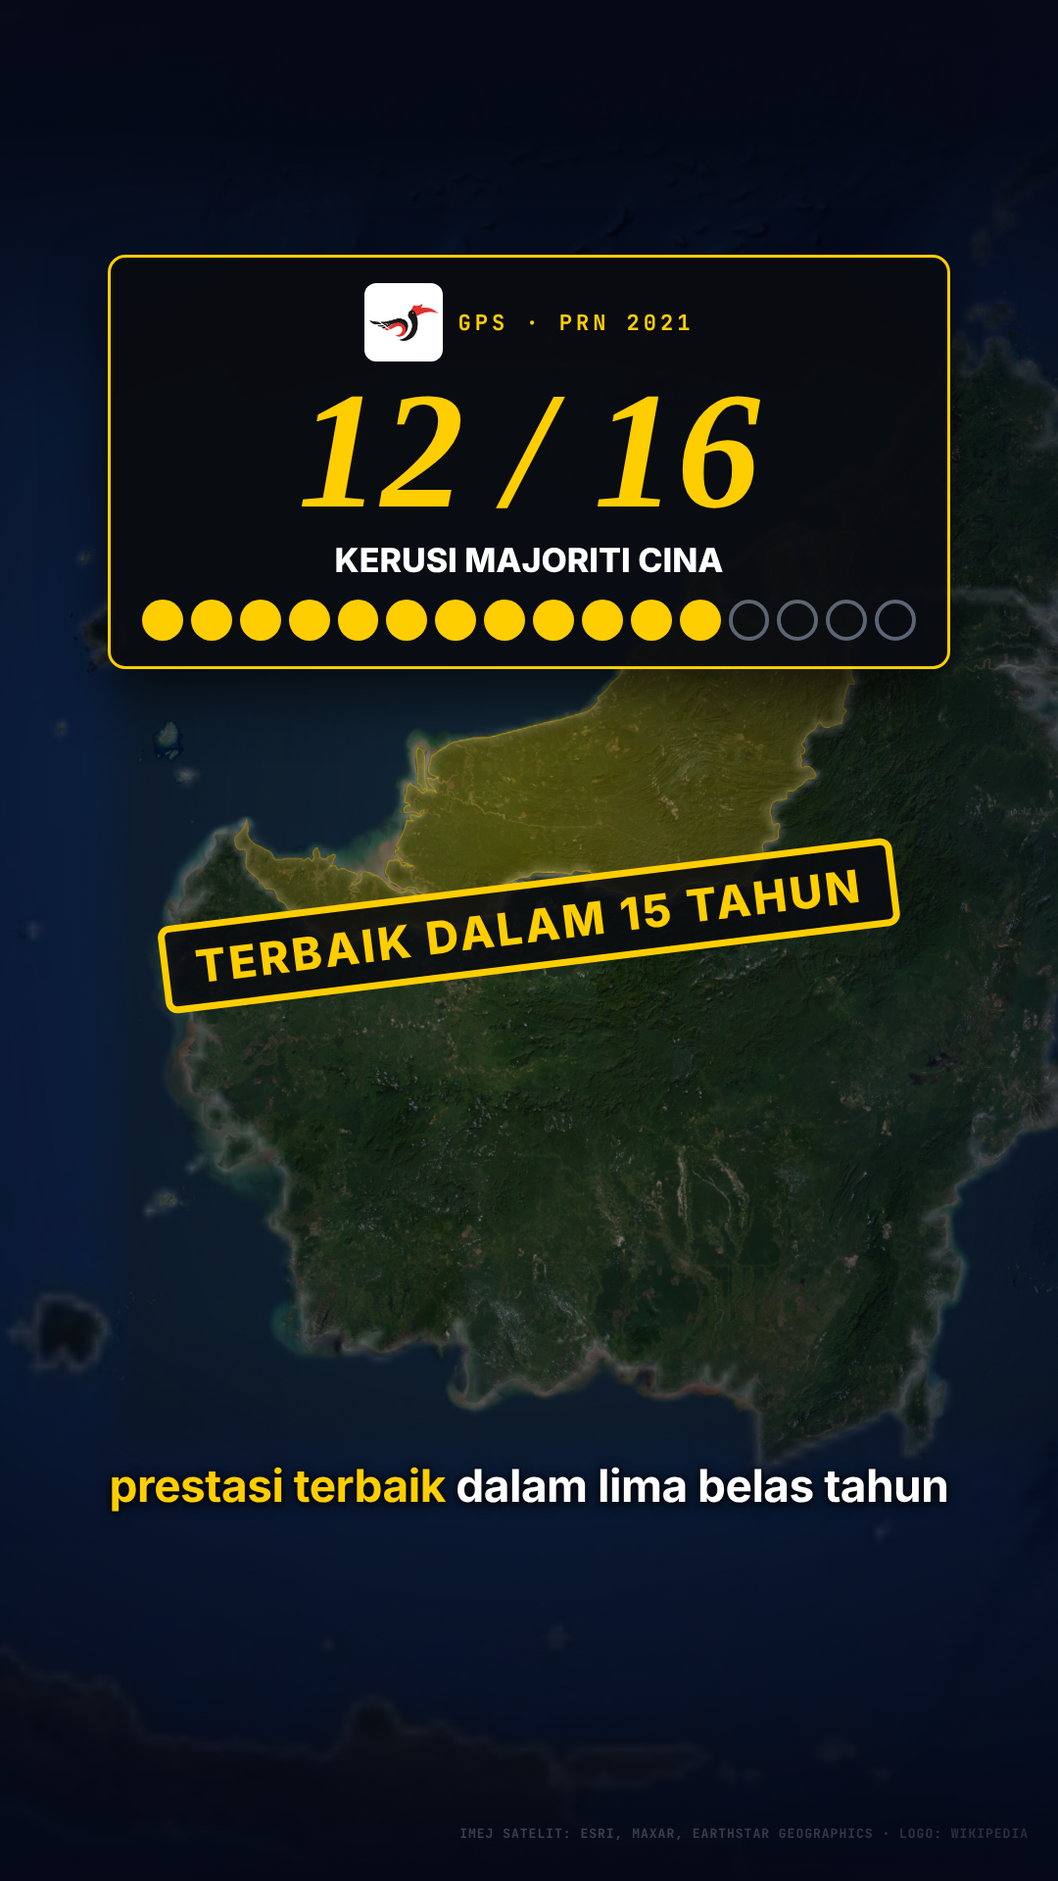
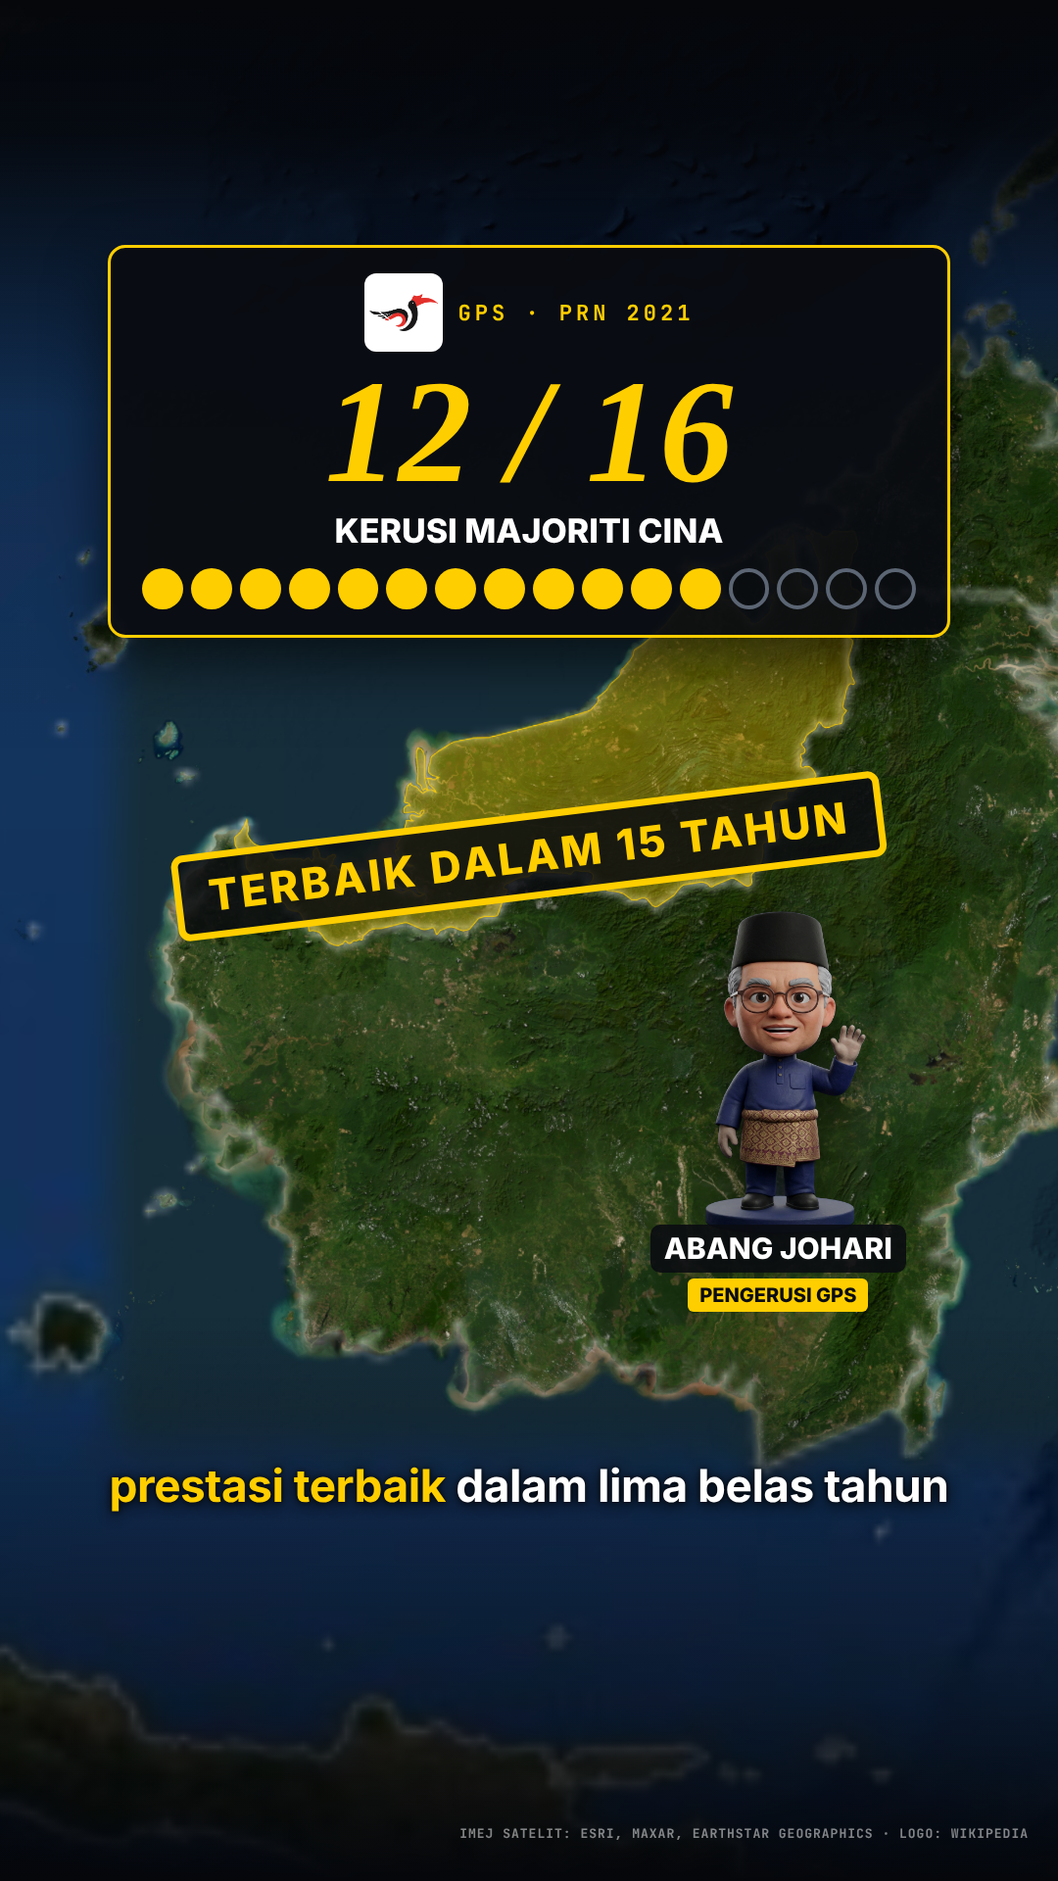
dap-sarawak-video: storyboard v2 with Kuching zooms, Putrajaya flight, caricature slots
Claude-Session: https://claude.ai/code/session_01GRVCpVLeEipRvyW43UFZDP

diff --git a/dap-sarawak-video/boards/frame.html b/dap-sarawak-video/boards/frame.html
@@ -251,7 +251,8 @@ const W = 1080, H = 1920;
 const F = +(new URLSearchParams(location.search).get("f") || 1);
 const g = await createGlobe(document.getElementById("gl"), { W, H, base: "../assets/", patches: [
   { src: "hi-borneo.jpg", lon0: 108, lon1: 119.5, lat0: -4.5, lat1: 7.5 },
-  { src: "hi-swk.jpg", lon0: 109.5, lon1: 115.7, lat0: 0.8, lat1: 5.1 } ] });
+  { src: "hi-kch.jpg", lon0: 110.1, lon1: 110.65, lat0: 1.3, lat1: 1.75 },
+  { src: "hi-my.jpg", lon0: 99.5, lon1: 119.5, lat0: 0.5, lat1: 7.5 } ] });
 const topo = await (await fetch("../assets/geo/countries-10m.json")).json();
 const countries = topojson.feature(topo, topo.objects.countries).features;
 const ST = (await (await fetch("../assets/geo/my-states.json")).json()).features;
@@ -281,43 +282,59 @@ const seats = (n, red, lost, top, label, sub, col = "#ff4d5e") => html(`<div sty
   ${lost ? `<div style="margin-top:12px;font:800 30px Inter;color:#ffce00;text-align:right">${lost}</div>` : ""}</div>`);
 const KCH = [1.55, 110.34], SBU = [2.30, 111.82], BTU = [3.17, 113.03], MRI = [4.40, 113.99];
 const SV = { lat: 2.75, lon: 112.4, dist: 0.6, tilt: 8, yShift: 0.1 };
+const ring = (ll, col, r = 40, lab, sub, subc) => { const p = g.project(ll[0], ll[1]); html(`<div style="position:absolute;left:${p.x - r}px;top:${p.y - r}px;width:${r * 2}px;height:${r * 2}px;border-radius:50%;border:6px solid ${col};box-shadow:0 0 30px ${col},inset 0 0 20px ${col}"></div><div style="position:absolute;left:${p.x - 9}px;top:${p.y - 9}px;width:18px;height:18px;border-radius:50%;background:${col}"></div>` + (lab ? `<div style="position:absolute;left:${p.x + r + 8}px;top:${p.y - 24}px;display:flex;flex-direction:column;gap:5px;align-items:flex-start"><div class="lab">${lab}</div>${sub ? `<div class="sub" style="background:${subc || col};color:${subc === "#ffce00" ? "#0b0d12" : "#fff"}">${sub}</div>` : ""}</div>` : "")); };
+const ph = (left, top, w, h, who, note) => html(`<div class="ph3" style="left:${left}px;top:${top}px;width:${w}px;height:${h}px"><svg viewBox="0 0 60 90" width="100" height="150" style="opacity:.7"><circle cx="30" cy="20" r="16" fill="#ffce00"/><path d="M4 90 Q4 44 30 42 Q56 44 56 90Z" fill="#ffce00"/></svg><div>KARIKATUR<br>${who}</div><em style="font-style:normal;color:#fff;font-size:15px">${note}</em></div>`);
+const fig = (left, top, h, src, name, role) => html(`<img class="fig" src="../assets/leaders/${src}" style="left:${left}px;top:${top}px;height:${h}px"><div class="np2" style="left:${left - 60}px;width:${h * 0.45 + 120}px;top:${top + h - 10}px"><b>${name}</b><br><i>${role}</i></div>`);
+const mini = (top, yr, n, col = "#ff4d5e") => html(`<div style="position:absolute;top:${top}px;left:90px;display:flex;align-items:center;gap:16px;background:rgba(10,12,17,.94);border-radius:16px;padding:14px 22px;box-shadow:0 14px 34px rgba(0,0,0,.5)">${lg("dap", 64)}<div style="font:700 22px Mono;letter-spacing:3px;color:#ff8a8a">${yr}</div><div style="font:italic 700 96px/1 Serif;color:${col}">${n}</div><div style="font:800 30px Inter;color:#fff">KERUSI</div></div>`);
+const KV = { lat: 1.53, lon: 110.36, dist: 0.016, tilt: 8, yShift: 0.12 };
+const PAD = [1.553, 110.355], PEN = [1.545, 110.392], KSN = [1.468, 110.330], PJ = [2.93, 101.69];
 const FR = {
-  1() { g.setView(SV); credit(); fill(SWK, "rgba(255,206,0,.18)", "#ffce00"); dimBg(.4);
-    html(`<div style="position:absolute;top:240px;left:150px;right:150px;height:560px;display:flex;align-items:flex-end;justify-content:center;gap:120px">
-      <div style="text-align:center"><div style="font:italic 700 140px/1 Serif;color:#ff4d5e">12</div><div style="width:200px;height:400px;background:linear-gradient(#ff4d5e,#b3121f);border-radius:12px 12px 0 0"></div><div style="font:800 40px Inter;color:#fff;margin-top:10px">2011</div></div>
-      <div style="text-align:center"><div style="font:italic 700 140px/1 Serif;color:#ff4d5e">2</div><div style="width:200px;height:67px;background:linear-gradient(#ff4d5e,#b3121f);border-radius:12px 12px 0 0"></div><div style="font:800 40px Inter;color:#fff;margin-top:10px">2021</div></div></div>`);
-    html(`<div style="position:absolute;top:900px;left:0;right:0;display:flex;justify-content:center;align-items:center;gap:20px">${lg("dap", 100)}<div style="font:800 54px Inter;color:#fff">DAP SARAWAK</div></div>`);
-    html(`<div class="stamp2 red" style="top:1110px;font-size:60px">APA JADI?</div>`);
+  1() { g.setView(SV); credit(); fill(SWK, "rgba(255,206,0,.15)", "#ffce00");
+    [KCH, SBU, BTU, MRI].forEach((ll) => ring(ll, "#ff4d5e", 34));
+    html(`<div style="position:absolute;top:230px;left:90px;right:90px;display:flex;align-items:flex-end;justify-content:center;gap:60px;background:rgba(10,12,17,.9);border-radius:18px;padding:20px 30px">
+      ${lg("dap", 90)}<div style="text-align:center"><div style="font:italic 700 110px/1 Serif;color:#ff4d5e">12</div><div style="width:120px;height:220px;background:linear-gradient(#ff4d5e,#b3121f);border-radius:10px 10px 0 0"></div><div style="font:800 32px Inter;color:#fff;margin-top:8px">2011</div></div>
+      <div style="font:800 60px Inter;color:#fff;align-self:center">→</div>
+      <div style="text-align:center"><div style="font:italic 700 110px/1 Serif;color:#ff4d5e">2</div><div style="width:120px;height:37px;background:linear-gradient(#ff4d5e,#b3121f);border-radius:10px 10px 0 0"></div><div style="font:800 32px Inter;color:#fff;margin-top:8px">2021</div></div></div>`);
+    html(`<div class="stamp2 red" style="top:1180px;font-size:60px">APA JADI?</div>`);
+    ph(760, 820, 260, 380, "CHONG CHIENG JEN", "pengerusi DAP Sarawak");
     capB(`Sepuluh tahun kemudian, <span class="r">tinggal dua je!</span>`); },
-  2() { g.setView(SV); credit(); fill(SWK, "rgba(255,206,0,.15)", "#ffce00");
-    pin(KCH, "KUCHING", "", true); pin(SBU, "SIBU", "", true); pin(BTU, "BINTULU", "", true); pin(MRI, "MIRI", "", true);
-    seats(12, 12, "", 250, "PRN 2011", "REKOD TERBAIK DAP SARAWAK");
+  2() { g.setView(KV); credit();
+    ring(PAD, "#ff4d5e", 44, "PADUNGAN", "DAP", "#ff4d5e"); ring(PEN, "#ff4d5e", 44, "PENDING", "DAP", "#ff4d5e"); ring(KSN, "#ff4d5e", 44, "KOTA SENTOSA", "DAP", "#ff4d5e");
+    html(`<div class="ttl" style="top:240px"><div class="a">PRN 2011 · KUCHING</div><div class="b" style="font-size:72px">DAP <span style="color:#ff4d5e">MENYAPU BANDAR</span></div></div>`);
+    mini(1080, "2011", 12);
     capB(`DAP menang <span class="r">dua belas kerusi</span> di Sarawak`); },
-  3() { g.setView(SV); credit(); fill(SWK, "rgba(255,206,0,.15)", "#ffce00");
-    seats(12, 7, "HILANG 5 KERUSI", 250, "PRN 2016", "TINGGAL TUJUH");
+  3() { g.setView({ lat: 3.0, lon: 112.6, dist: 0.32, tilt: 8, yShift: 0.1 }); credit(); fill(SWK, "rgba(255,206,0,.15)", "#ffce00");
+    ring(SBU, "#7a828c", 40, "SIBU", "-", "#5b6573"); ring(BTU, "#7a828c", 40, "BINTULU", "", ""); ring(MRI, "#7a828c", 40, "MIRI", "", "");
+    html(`<div class="stamp2 red" style="top:300px;font-size:60px">HILANG 5 KERUSI</div>`);
+    mini(1080, "2016", 7);
     capB(`DAP hilang lima kerusi, <span class="r">tinggal tujuh</span>`); },
-  4() { g.setView(SV); credit(); fill(SWK, "rgba(255,206,0,.15)", "#ffce00");
-    pin(KCH, "PADUNGAN · PENDING", "DAP BERTAHAN", true); pin(SBU, "BUKIT ASSEK · PELAWAN", "→ SUPP", "g"); pin(BTU, "TANJONG BATU", "→ SUPP", "g"); pin(MRI, "PUJUT", "→ SUPP", "g");
-    seats(7, 2, "HILANG 5 LAGI", 250, "PRN 2021", "TINGGAL DUA");
+  4() { g.setView(KV); credit();
+    ring(PAD, "#ff4d5e", 44, "PADUNGAN", "DAP BERTAHAN", "#ff4d5e"); ring(PEN, "#ff4d5e", 44, "PENDING", "DAP BERTAHAN", "#ff4d5e"); ring(KSN, "#ffce00", 44, "KOTA SENTOSA", "→ SUPP", "#ffce00");
+    mini(250, "2021", 2);
+    ph(60, 820, 260, 380, "SIM KUI HIAN", "presiden SUPP (GPS)");
     capB(`Cuma <span class="r">Padungan dan Pending</span> yang bertahan`); },
-  5() { g.setView(SV); credit(); fill(SWK, "rgba(255,206,0,.3)", "#ffce00"); dimBg(.45);
-    html(`<div class="big60" style="top:260px;border:3px solid #ffce00"><div style="display:flex;align-items:center;justify-content:center;gap:16px">${lg("gps", 80)}<div class="k" style="color:#ffce00">GPS · PRN 2021</div></div><div class="n" style="font-size:170px">12 / 16</div><div class="u">KERUSI MAJORITI CINA</div>
-      <div style="display:grid;grid-template-columns:repeat(16,1fr);gap:8px;margin-top:20px">${Array.from({ length: 16 }, (_, i) => `<i style="aspect-ratio:1;border-radius:50%;display:block;${i < 12 ? "background:#ffce00" : "border:4px solid #5b6573"}"></i>`).join("")}</div></div>`);
-    html(`<div class="stamp2 gold" style="top:900px;font-size:46px">TERBAIK DALAM 15 TAHUN</div>`);
+  5() { g.setView(SV); credit(); fill(SWK, "rgba(255,206,0,.32)", "#ffce00");
+    html(`<div class="big60" style="top:250px;border:3px solid #ffce00"><div style="display:flex;align-items:center;justify-content:center;gap:16px">${lg("gps", 80)}<div class="k" style="color:#ffce00">GPS · PRN 2021</div></div><div class="n" style="font-size:150px">12 / 16</div><div class="u">KERUSI MAJORITI CINA</div>
+      <div style="display:grid;grid-template-columns:repeat(16,1fr);gap:8px;margin-top:18px">${Array.from({ length: 16 }, (_, i) => `<i style="aspect-ratio:1;border-radius:50%;display:block;${i < 12 ? "background:#ffce00" : "border:4px solid #5b6573"}"></i>`).join("")}</div></div>`);
+    html(`<div class="stamp2 gold" style="top:830px;font-size:44px">TERBAIK DALAM 15 TAHUN</div>`);
+    fig(720, 930, 330, "johari-fig.png", "ABANG JOHARI", "PENGERUSI GPS");
     capB(`<span class="r">prestasi terbaik</span> dalam lima belas tahun`); },
-  6() { g.setView(SV); fill(SWK, "rgba(255,206,0,.15)", "#ffce00"); dimBg(.6);
-    html(`<div class="ttl" style="top:250px"><div class="b" style="font-size:96px">KENAPA<span>?</span></div><div class="a" style="font-size:28px;margin-top:10px;color:#c9d0d8">KATA PENGANALISIS</div></div>`);
-    const r = (n, t, s) => `<div style="display:flex;gap:22px;align-items:center;background:rgba(10,12,17,.95);border-radius:18px;padding:24px 28px;box-shadow:0 14px 34px rgba(0,0,0,.5)"><div style="width:90px;height:90px;border-radius:50%;background:#ffce00;display:flex;align-items:center;justify-content:center;font:800 50px Inter;color:#0b0d12;flex:none">${n}</div><div><div style="font:800 44px/1.1 Inter;color:#fff">${t}</div><div style="font:700 20px Mono;color:#9aa3ad;letter-spacing:1px;margin-top:6px">${s}</div></div></div>`;
-    html(`<div style="position:absolute;top:500px;left:80px;right:80px;display:flex;flex-direction:column;gap:24px">${r(1, "KECEWA REKOD 22 BULAN PH", "PH DI PUTRAJAYA 2018 – 2020")}${r(2, "SENTIMEN \"UTAMAKAN SARAWAK\"", "UNDI BERALIH KE PARTI TEMPATAN")}</div>`);
-    capB(`pengundi kecewa dengan <span class="r">rekod 22 bulan</span>`); },
-  7() { g.setView(SV); fill(SWK, "rgba(255,206,0,.15)", "#ffce00"); dimBg(.7);
+  6() { g.setView({ lat: 2.6, lon: 106.2, dist: 1.35, tilt: 8, yShift: 0.08 }); dimBg(.35);
+    const A = g.project(PJ[0], PJ[1]), B = g.project(KCH[0], KCH[1]);
+    html(`<svg style="position:absolute;inset:0" width="1080" height="1920"><defs><marker id="ah" markerWidth="10" markerHeight="10" refX="6" refY="5" orient="auto"><path d="M0 0 L10 5 L0 10Z" fill="#ff4d5e"/></marker></defs><path d="M${A.x} ${A.y} Q${(A.x + B.x) / 2} ${Math.min(A.y, B.y) - 220} ${B.x} ${B.y}" stroke="#ff4d5e" stroke-width="7" stroke-dasharray="16 10" fill="none" marker-end="url(#ah)"/></svg>`);
+    pin(PJ, "PUTRAJAYA", "PH · 22 BULAN (2018–20)", true); pin(KCH, "KUCHING", "");
+    html(`<div class="ttl" style="top:240px"><div class="b" style="font-size:90px">KENAPA<span>?</span></div><div class="a" style="font-size:26px;margin-top:8px;color:#c9d0d8">KATA PENGANALISIS</div></div>`);
+    const r = (n, t, s2) => `<div style="display:flex;gap:20px;align-items:center;background:rgba(10,12,17,.95);border-radius:18px;padding:20px 24px;box-shadow:0 14px 34px rgba(0,0,0,.5)"><div style="width:80px;height:80px;border-radius:50%;background:#ffce00;display:flex;align-items:center;justify-content:center;font:800 46px Inter;color:#0b0d12;flex:none">${n}</div><div><div style="font:800 40px/1.1 Inter;color:#fff">${t}</div><div style="font:700 19px Mono;color:#9aa3ad;letter-spacing:1px;margin-top:6px">${s2}</div></div></div>`;
+    html(`<div style="position:absolute;top:1000px;left:80px;right:80px;display:flex;flex-direction:column;gap:18px">${r(1, "KECEWA REKOD 22 BULAN PH", "PH DI PUTRAJAYA 2018 – 2020")}${r(2, "SENTIMEN \"UTAMAKAN SARAWAK\"", "UNDI BERALIH KE PARTI TEMPATAN")}</div>`);
+    capB(`rekod <span class="r">22 bulan</span> Pakatan Harapan di Putrajaya`); },
+  7() { g.setView({ ...KV, dist: 0.03 }); credit(); dimBg(.5);
     html(`<div style="position:absolute;top:250px;left:0;right:0;text-align:center"><span style="display:inline-block;font:800 40px Inter;letter-spacing:6px;color:#0b0d12;background:#ffce00;padding:8px 22px;border-radius:8px">TUNGGU DULU…</span></div>`);
     html(`<div class="ttl" style="top:340px"><div class="b" style="font-size:72px">PRN 2026: <span>SEORANG DIRI</span></div></div>`);
-    html(`<div style="position:absolute;top:560px;left:0;right:0;display:flex;justify-content:center">${lg("dap", 260)}</div>`);
-    html(`<div style="position:absolute;top:850px;left:0;right:0;text-align:center;font:800 44px Inter;color:#fff">DAP · <span style="color:#ff4d5e">12 KERUSI</span></div>`);
-    const x = (k) => `<div style="position:relative">${lg(k, 170)}<div style="position:absolute;left:-10px;right:-10px;top:50%;height:14px;background:#ff2d46;transform:rotate(-20deg);border-radius:7px"></div></div>`;
-    html(`<div style="position:absolute;top:960px;left:0;right:0;display:flex;justify-content:center;gap:40px">${x("pkr")}${x("amanah")}</div>`);
-    html(`<div class="stamp2 red" style="top:1170px;font-size:44px">RAKAN SENDIRI TAK TURUN</div>`);
+    html(`<div style="position:absolute;top:500px;left:0;right:0;display:flex;justify-content:center;align-items:center;gap:20px">${lg("dap", 120)}<div style="font:800 50px Inter;color:#fff">12 KERUSI</div></div>`);
+    const x = (k) => `<div style="position:relative">${lg(k, 140)}<div style="position:absolute;left:-10px;right:-10px;top:50%;height:12px;background:#ff2d46;transform:rotate(-20deg);border-radius:6px"></div></div>`;
+    html(`<div style="position:absolute;top:700px;left:90px;display:flex;flex-direction:column;gap:24px">${x("pkr")}${x("amanah")}</div>`);
+    html(`<div style="position:absolute;top:1060px;left:70px;font:800 30px Inter;color:#ff8a8a;letter-spacing:2px">TAK TURUN</div>`);
+    ph(560, 700, 300, 440, "CHONG CHIENG JEN", "seorang diri, angkat bahu");
     capB(`PKR dan Amanah, <span class="r">rakan sendiri</span>, tak turun langsung`); },
   8() { g.setView({ ...SV, dist: 0.7 }); fill(SWK, "rgba(255,206,0,.2)", "#ffce00");
     html(`<div style="position:absolute;inset:0;background:rgba(5,7,11,.55)"></div>`);
@@ -327,7 +344,7 @@ const FR = {
     capB(`DAP bangkit semula, <span class="r">atau terus tenggelam?</span>`); },
 };
 FR[F]();
-g.setPatchOp(0, 1); g.setPatchOp(1, 0);
+g.setPatchOp(0, F === 6 ? 0 : 1); g.setPatchOp(1, [2, 4, 7].includes(F) ? 1 : 0); g.setPatchOp(2, F === 6 ? 1 : 0);
 g.render();
 document.body.dataset.ready = "1";
 </script></body></html>

diff --git a/dap-sarawak-video/boards/storyboard.html b/dap-sarawak-video/boards/storyboard.html
@@ -17,6 +17,6 @@ h1{font:800 46px Inter;letter-spacing:-1px}h1 span{color:#ffce00}
 .vo{font:400 17px/1.4 Inter;color:#dfe5ea;font-style:italic;margin-bottom:12px}
 .fx{font:400 15px/1.45 Inter;color:#9aa3ad}.fx b{color:#ffcf4a;font-weight:700}
 </style></head><body>
-<h1>DAP SARAWAK: <span>12 KERUSI JADI 2</span></h1>
-<div class="meta">MAP ANIMATION + CARTA KERUSI · POLITIK SEMASA (NEUTRAL) · 1080×1920 · ≈55 s · open loop "apa jadi?" + re-hook DAP seorang diri · logo: Wikipedia · fakta: Borneo Post, Malay Mail, Dayak Daily, MalaysiaNow, Sinar Harian</div>
-<div class="grid"><div class="f"><img src="frame-01.png"><div><div class="n">01 · 0:00</div><div class="t">Hook + open loop</div><div class="vo">"Tahun 2011, DAP menang 12 kerusi di Sarawak. Rekod terbaik DAP di negeri tu. Sepuluh tahun kemudian, tinggal dua je! Apa jadi?"</div><div class="fx">Carta bar <b>12 → 2</b>: bar 2011 naik, bar 2021 runtuh. Logo DAP, cop merah <b>APA JADI?</b></div></div></div><div class="f"><img src="frame-02.png"><div><div class="n">02 · 0:07</div><div class="t">2011: 12 kerusi</div><div class="vo">"(sambungan hook)"</div><div class="fx">Peta Sarawak imej tajam, pin <b>Kuching, Sibu, Bintulu, Miri</b>. Kad <b>12 titik merah</b>, rekod terbaik.</div></div></div><div class="f"><img src="frame-03.png"><div><div class="n">03 · 0:10</div><div class="t">2016: tinggal 7</div><div class="vo">"2016, DAP hilang lima kerusi, tinggal tujuh."</div><div class="fx">5 titik <b>padam satu-satu</b> jadi ✗, kiraan 12 → 7.</div></div></div><div class="f"><img src="frame-04.png"><div><div class="n">04 · 0:14</div><div class="t">2021: tinggal 2</div><div class="vo">"2021, hilang lima lagi. Cuma Padungan dan Pending yang bertahan. SUPP, parti dalam GPS, rampas balik kerusi-kerusi tu."</div><div class="fx">7 → 2. Pin Kuching <b>DAP BERTAHAN</b>; Sibu, Bintulu, Miri bertukar <b>→ SUPP</b> (kuning).</div></div></div><div class="f"><img src="frame-05.png"><div><div class="n">05 · 0:22</div><div class="t">12 / 16</div><div class="vo">"Malah GPS menang 12 daripada 16 kerusi majoriti Cina, prestasi terbaik dalam 15 tahun."</div><div class="fx">Kad emas <b>12 / 16</b> dengan logo GPS, 16 titik menyala, cop <b>TERBAIK DALAM 15 TAHUN</b>.</div></div></div><div class="f"><img src="frame-06.png"><div><div class="n">06 · 0:29</div><div class="t">Kenapa?</div><div class="vo">"Kenapa? Penganalisis kata, pengundi kecewa dengan rekod 22 bulan PH di Putrajaya, dan sentimen Utamakan Sarawak makin kuat."</div><div class="fx"><b>KENAPA?</b> + dua kad sebab muncul satu-satu (dilabel <b>kata penganalisis</b>, bukan fakta mutlak).</div></div></div><div class="f"><img src="frame-07.png"><div><div class="n">07 · 0:39</div><div class="t">Re-hook: seorang diri</div><div class="vo">"Tapi tunggu dulu! PRN kali ni, DAP bertanding seorang diri. PKR dan Amanah, rakan sendiri, tak turun langsung."</div><div class="fx"><b>Flash, muzik berhenti.</b> Logo DAP besar di tengah, logo PKR & Amanah <b>dipangkah</b>, cop <b>RAKAN SENDIRI TAK TURUN</b>.</div></div></div><div class="f"><img src="frame-08.png"><div><div class="n">08 · 0:47</div><div class="t">Ramalan</div><div class="vo">"Jadi, 12 Disember ni, DAP bangkit semula, atau terus tenggelam? Komen ramalan kau kat bawah!"</div><div class="fx">Dua kad <b>BANGKIT vs TENGGELAM</b> + <b>KOMEN RAMALAN ↓</b>.</div></div></div></div></body></html>
+<h1>DAP SARAWAK: <span>12 KERUSI JADI 2</span> (v2)</h1>
+<div class="meta">MAP ANIMATION (lebih banyak terbang & zoom: Kuching → Sibu/Miri → Kuching → Putrajaya → Kuching) · karikatur Chong Chieng Jen, Sim Kui Hian, Abang Johari · logo: Wikipedia · neutral</div>
+<div class="grid"><div class="f"><img src="frame-01.png"><div><div class="n">01 · 0:00</div><div class="t">Hook + open loop</div><div class="vo">"Tahun 2011, DAP menang 12 kerusi di Sarawak. Rekod terbaik DAP di negeri tu. Sepuluh tahun kemudian, tinggal dua je! Apa jadi?"</div><div class="fx">Peta Sarawak, <b>cincin merah berdenyut</b> di Kuching, Sibu, Bintulu, Miri. Carta <b>12 → 2</b>, cop <b>APA JADI?</b> <b>Karikatur Chong Chieng Jen</b> jatuh masuk.</div></div></div><div class="f"><img src="frame-02.png"><div><div class="n">02 · 0:07</div><div class="t">2011: Kuching</div><div class="vo">"(sambungan hook)"</div><div class="fx"><b>Zoom masuk ke Kuching</b> (imej satelit tajam): cincin merah di Padungan, Pending, Kota Sentosa. Kad <b>2011 · 12 KERUSI</b>.</div></div></div><div class="f"><img src="frame-03.png"><div><div class="n">03 · 0:10</div><div class="t">2016: tinggal 7</div><div class="vo">"2016, DAP hilang lima kerusi, tinggal tujuh."</div><div class="fx"><b>Terbang ke Sibu–Bintulu–Miri</b>, cincin bertukar kelabu. Cop <b>HILANG 5 KERUSI</b>, kiraan 12 → 7.</div></div></div><div class="f"><img src="frame-04.png"><div><div class="n">04 · 0:14</div><div class="t">2021: tinggal 2</div><div class="vo">"2021, hilang lima lagi. Cuma Padungan dan Pending yang bertahan. SUPP, parti dalam GPS, rampas balik kerusi-kerusi tu."</div><div class="fx"><b>Balik zoom ke Kuching</b>: Padungan & Pending kekal merah, Kota Sentosa <b>bertukar kuning → SUPP</b>. <b>Karikatur Sim Kui Hian (SUPP)</b> jatuh masuk.</div></div></div><div class="f"><img src="frame-05.png"><div><div class="n">05 · 0:22</div><div class="t">12 / 16</div><div class="vo">"Malah GPS menang 12 daripada 16 kerusi majoriti Cina, prestasi terbaik dalam 15 tahun."</div><div class="fx">Sarawak menyala emas, kad <b>12 / 16</b> + logo GPS, <b>karikatur Abang Johari</b> melambai.</div></div></div><div class="f"><img src="frame-06.png"><div><div class="n">06 · 0:29</div><div class="t">Kenapa? Putrajaya</div><div class="vo">"Kenapa? Penganalisis kata, pengundi kecewa dengan rekod 22 bulan PH di Putrajaya, dan sentimen Utamakan Sarawak makin kuat."</div><div class="fx"><b>Terbang keluar ke Semenanjung</b>: pin <b>Putrajaya · PH 22 bulan</b>, anak panah merah ke Kuching. Dua kad sebab (kata penganalisis).</div></div></div><div class="f"><img src="frame-07.png"><div><div class="n">07 · 0:39</div><div class="t">Re-hook: seorang diri</div><div class="vo">"Tapi tunggu dulu! PRN kali ni, DAP bertanding seorang diri. PKR dan Amanah, rakan sendiri, tak turun langsung."</div><div class="fx"><b>Flash.</b> Balik ke Kuching. Logo PKR & Amanah <b>dipangkah</b>, <b>Chong Chieng Jen</b> berdiri seorang diri.</div></div></div><div class="f"><img src="frame-08.png"><div><div class="n">08 · 0:47</div><div class="t">Ramalan</div><div class="vo">"Jadi, 12 Disember ni, DAP bangkit semula, atau terus tenggelam? Komen ramalan kau kat bawah!"</div><div class="fx">Dua kad <b>BANGKIT vs TENGGELAM</b> + <b>KOMEN RAMALAN ↓</b>.</div></div></div></div></body></html>
